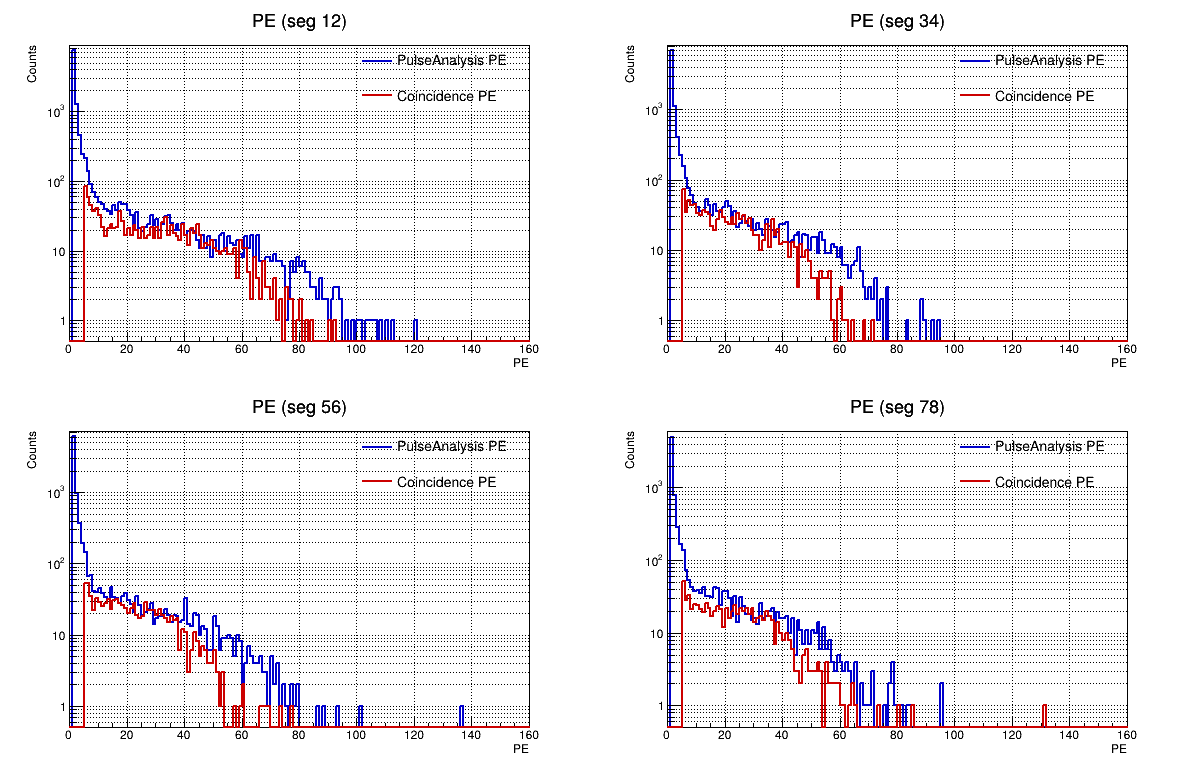
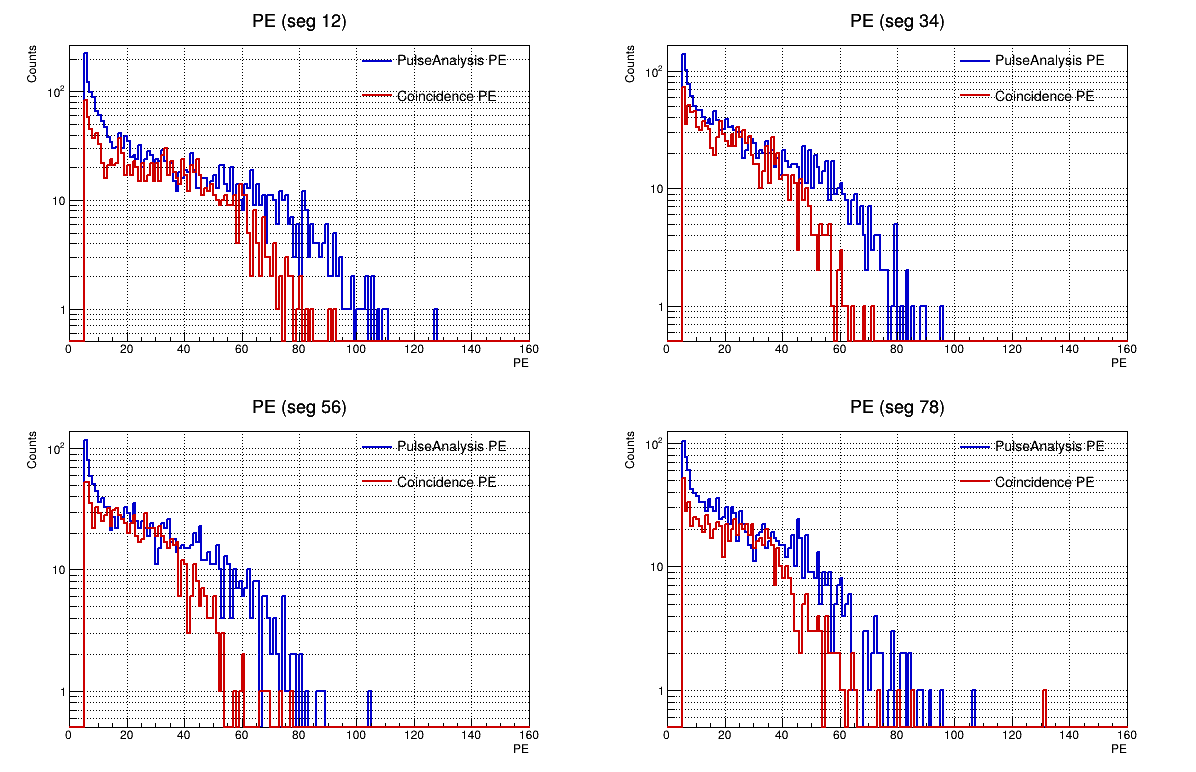
Finalize k-selection alg for pulse fitting

diff --git a/src/FitCore.cpp b/src/FitCore.cpp
@@ -168,22 +168,36 @@ cluster_seeds(const std::vector<std::pair<double,double>>& s, int closeBins) {
     return clusters;
 }
 
-static void init_k_uniform(
+static void init_k_weighted(
     const std::vector<std::pair<double, double>>& cl, 
-    int k,
+    int K,
     std::vector<double>& pe0,
     std::vector<double>& dt0)
 {
-    double PE_sum = 0, dt_min = cl.front().first, dt_max = cl.back().first;
-    for (auto& p : cl) {
-        PE_sum += p.second;
-        dt_min = std::min(dt_min, p.first);
-        dt_max = std::max(dt_max, p.first);
+    K = std::max(1, K);
+    pe0.clear(); dt0.clear();
+    if (cl.empty()) { pe0.assign(K, 1.0); dt0.assign(K, 0.0); return; }
+
+    double wsum = 0.0;
+    for (const auto& s : cl) wsum += std::max(1.0, s.second);
+
+    pe0.assign(K, std::max(1.0, wsum / K));
+    dt0.resize(K);
+
+    const double step = wsum / K;
+
+    // two-pointer cumulative scan (using acc. weight to split dts)
+    // following cl, find each index for (i+0.5)*step 
+    double acc = 0.0; // accumulated weight
+    size_t j = 0;// cl index
+    for (int i=0; i<K; ++i) {
+        const double target = (i + 0.5) * step;
+        while (j + 1 < cl.size() && acc + std::max(1.0, cl[j].second) < target) {
+            acc += std::max(1.0, cl[j].second);
+            ++j;
+        }
+        dt0[i] = cl[j].first; // use dt0 near where the weight cut it
     }
-    pe0.assign(k, std::max(1.0, PE_sum / std::max(1, k)));
-    dt0.resize(k);
-    if (dt_max <= dt_min) { for (int i=0;i<k;++i) dt0[i] = dt_min; }
-    else { for (int i=0;i<k;++i) dt0[i] = dt_min + (dt_max - dt_min) * (i + 0.5) / k; }
 }
 
 std::pair<FitResult,int> select_k_for_cluster(
@@ -194,7 +208,7 @@ std::pair<FitResult,int> select_k_for_cluster(
     FitResult best; int best_k = 0;
     const int m = (int)cl.size();
     for (int k=1;k<=m;++k){
-        std::vector<double> pe0, dt0; init_k_uniform(cl, k, pe0, dt0);
+        std::vector<double> pe0, dt0; init_k_weighted(cl, k, pe0, dt0);
         FitResult r = fit_n_pulses_bobyqa(prob, k, pe0, dt0, peMin, peMax, dtMin, dtMax, opt.maxEval);
         if (!r.ok) continue;
         double s = opt.useBIC ? (2.0*r.nll + (2*k)*std::log(std::max(1, prob.nTime))) : r.nll;

diff --git a/src/Pulse_Fitting.cpp b/src/Pulse_Fitting.cpp
@@ -371,7 +371,7 @@ bool Pulse_Fitting::fitPulses(const vector<int>& hist, const vector<double>& xCe
     for (size_t i=0;i<newPE.size();++i) seeds.emplace_back(newDT[i], newPE[i]);
     std::sort(seeds.begin(), seeds.end(), [](auto a, auto b){ return a.first < b.first; });
 
-    const int closeBins = 10;
+    const int closeBins = 4;
     auto clusters = cluster_seeds(seeds, closeBins);
 
     KSelectOptions kopt;
@@ -397,11 +397,32 @@ bool Pulse_Fitting::fitPulses(const vector<int>& hist, const vector<double>& xCe
         }
     }
     
-    auto finalR = fit_global_from_selections(prob, chosenPEs, chosenDTs, peMin, peMax, dtMin, dtMax, 200);
-    if (!finalR.ok || finalR.PEs.empty()) return false;
+    auto r = fit_global_from_selections(prob, chosenPEs, chosenDTs, peMin, peMax, dtMin, dtMax, 200);
+    if (!r.ok || r.PEs.empty()) return false;
 
-    fittedPEs = finalR.PEs;
-    fittedDTs = finalR.DTs;
+    auto prune = [&](const std::vector<double>& P, const std::vector<double>& D){
+        std::vector<double> p2, d2;
+        for (size_t i=0;i<P.size();++i) if (P[i] >= 5.0) { p2.push_back(P[i]); d2.push_back(D[i]); }
+        return std::make_pair(std::move(p2), std::move(d2));
+    };
+
+    {
+        auto pr = prune(r.PEs, r.DTs);
+        if (pr.first.empty()) return false;
+        r.PEs.swap(pr.first); r.DTs.swap(pr.second);
+    }
+
+    for (int it=0; it<3; ++it) {
+        auto r2 = fit_n_pulses_bobyqa(prob, (int)r.PEs.size(), r.PEs, r.DTs, peMin, peMax, dtMin, dtMax, 200);
+        if (!r2.ok) break;
+        auto pr2 = prune(r2.PEs, r2.DTs);
+        if ((int)pr2.first.size() == (int)r.PEs.size()) { r = r2; break; } // 收斂
+        if (pr2.first.empty()) return false;
+        r.PEs.swap(pr2.first); r.DTs.swap(pr2.second);
+    }
+
+    fittedPEs = std::move(r.PEs);
+    fittedDTs = std::move(r.DTs);
 
     vector<double> expected(hist.size(), 0.0);
     if (fixedExpected) {

diff --git a/src/Results_Comp.cpp b/src/Results_Comp.cpp
@@ -142,7 +142,7 @@ void plot_neglog_hist(const std::vector<WindowRow>& ws_all, const std::string& o
     for (const auto& w : ws_all) { mn = std::min(mn, w.negLogL); mx = std::max(mx, w.negLogL); }
     if (mx <= mn) mx = mn + 1.0;
 
-    TCanvas* c = new TCanvas("c_neglog", "Negative Log-Likelihood", 1000, 650);
+    TCanvas* c = new TCanvas("c_neglogL", "Negative Log-Likelihood", 1000, 650);
     TH1D* h = new TH1D("h_neglog", "Negative Log-Likelihood; -logL; Windows", nbins, mn, mx);
     for (const auto& w : ws_all) h->Fill(w.negLogL);
 
@@ -152,6 +152,18 @@ void plot_neglog_hist(const std::vector<WindowRow>& ws_all, const std::string& o
     c->Update();
     c->SaveAs((out_png_prefix + "_neglogL_dist.png").c_str());
     delete c;
+
+    TCanvas* c_log = new TCanvas("c_neglogL_log", "Negative Log-Likelihood (log_)", 1000, 650);
+    TH1D* h_log = new TH1D("h_neglog_log", "Negative Log-Likelihood (log); -logL; Windows", nbins, mn, mx);
+    for (const auto& w : ws_all) h->Fill(w.negLogL);
+
+    c_log->SetGrid();
+    c_log->SetLogy(1);
+    h_log->SetLineWidth(2);
+    h_log->Draw("HIST");
+    c_log->Update();
+    c_log->SaveAs((out_png_prefix + "_neglogL_dist_log.png").c_str());
+    delete c_log;
 }
 
 void plot_obs_exp_corr(const std::vector<WindowRow>& ws_all, const std::string& out_png_prefix)
